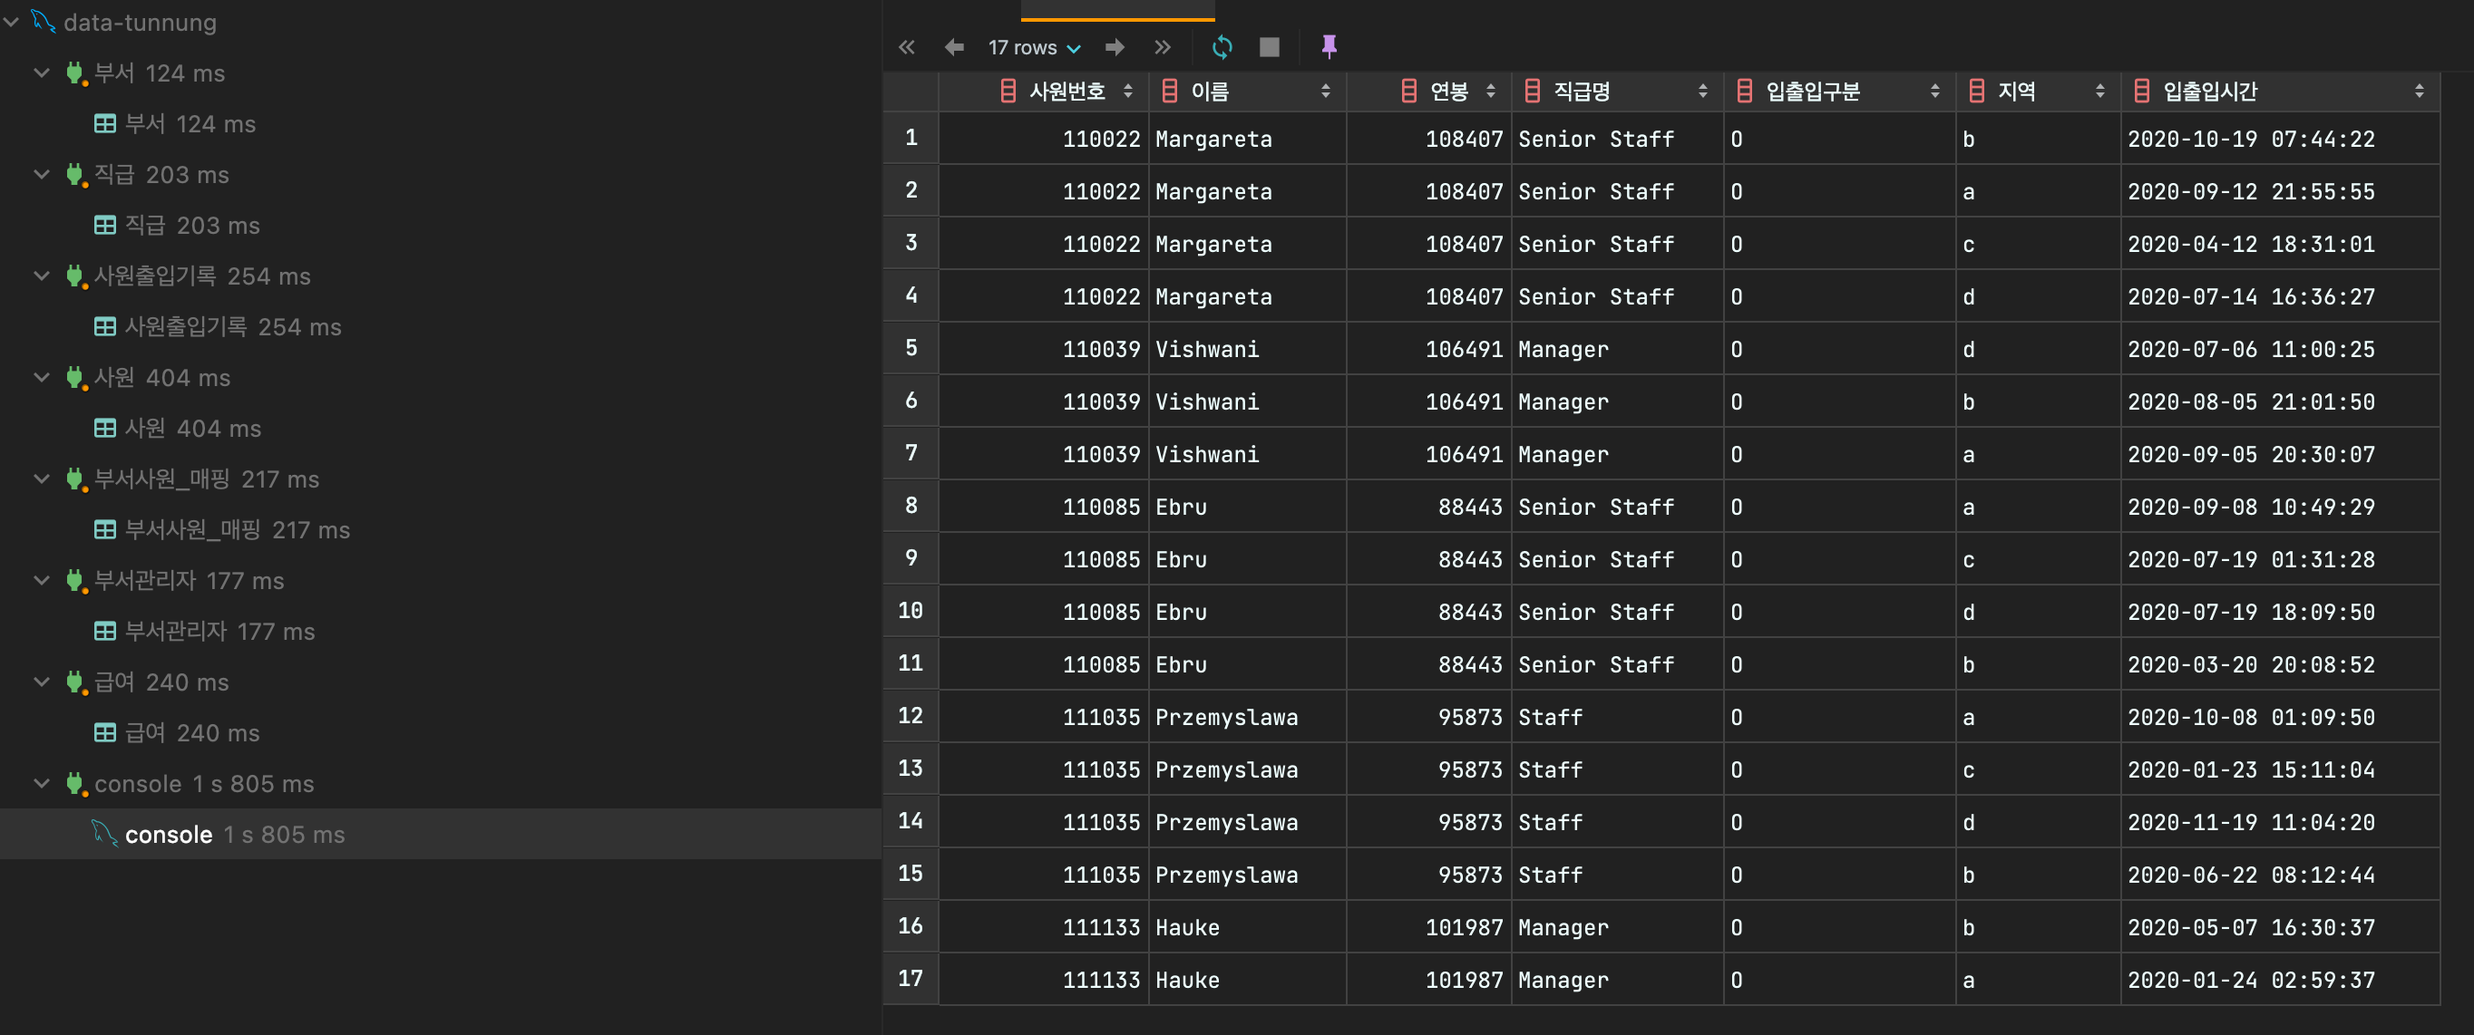
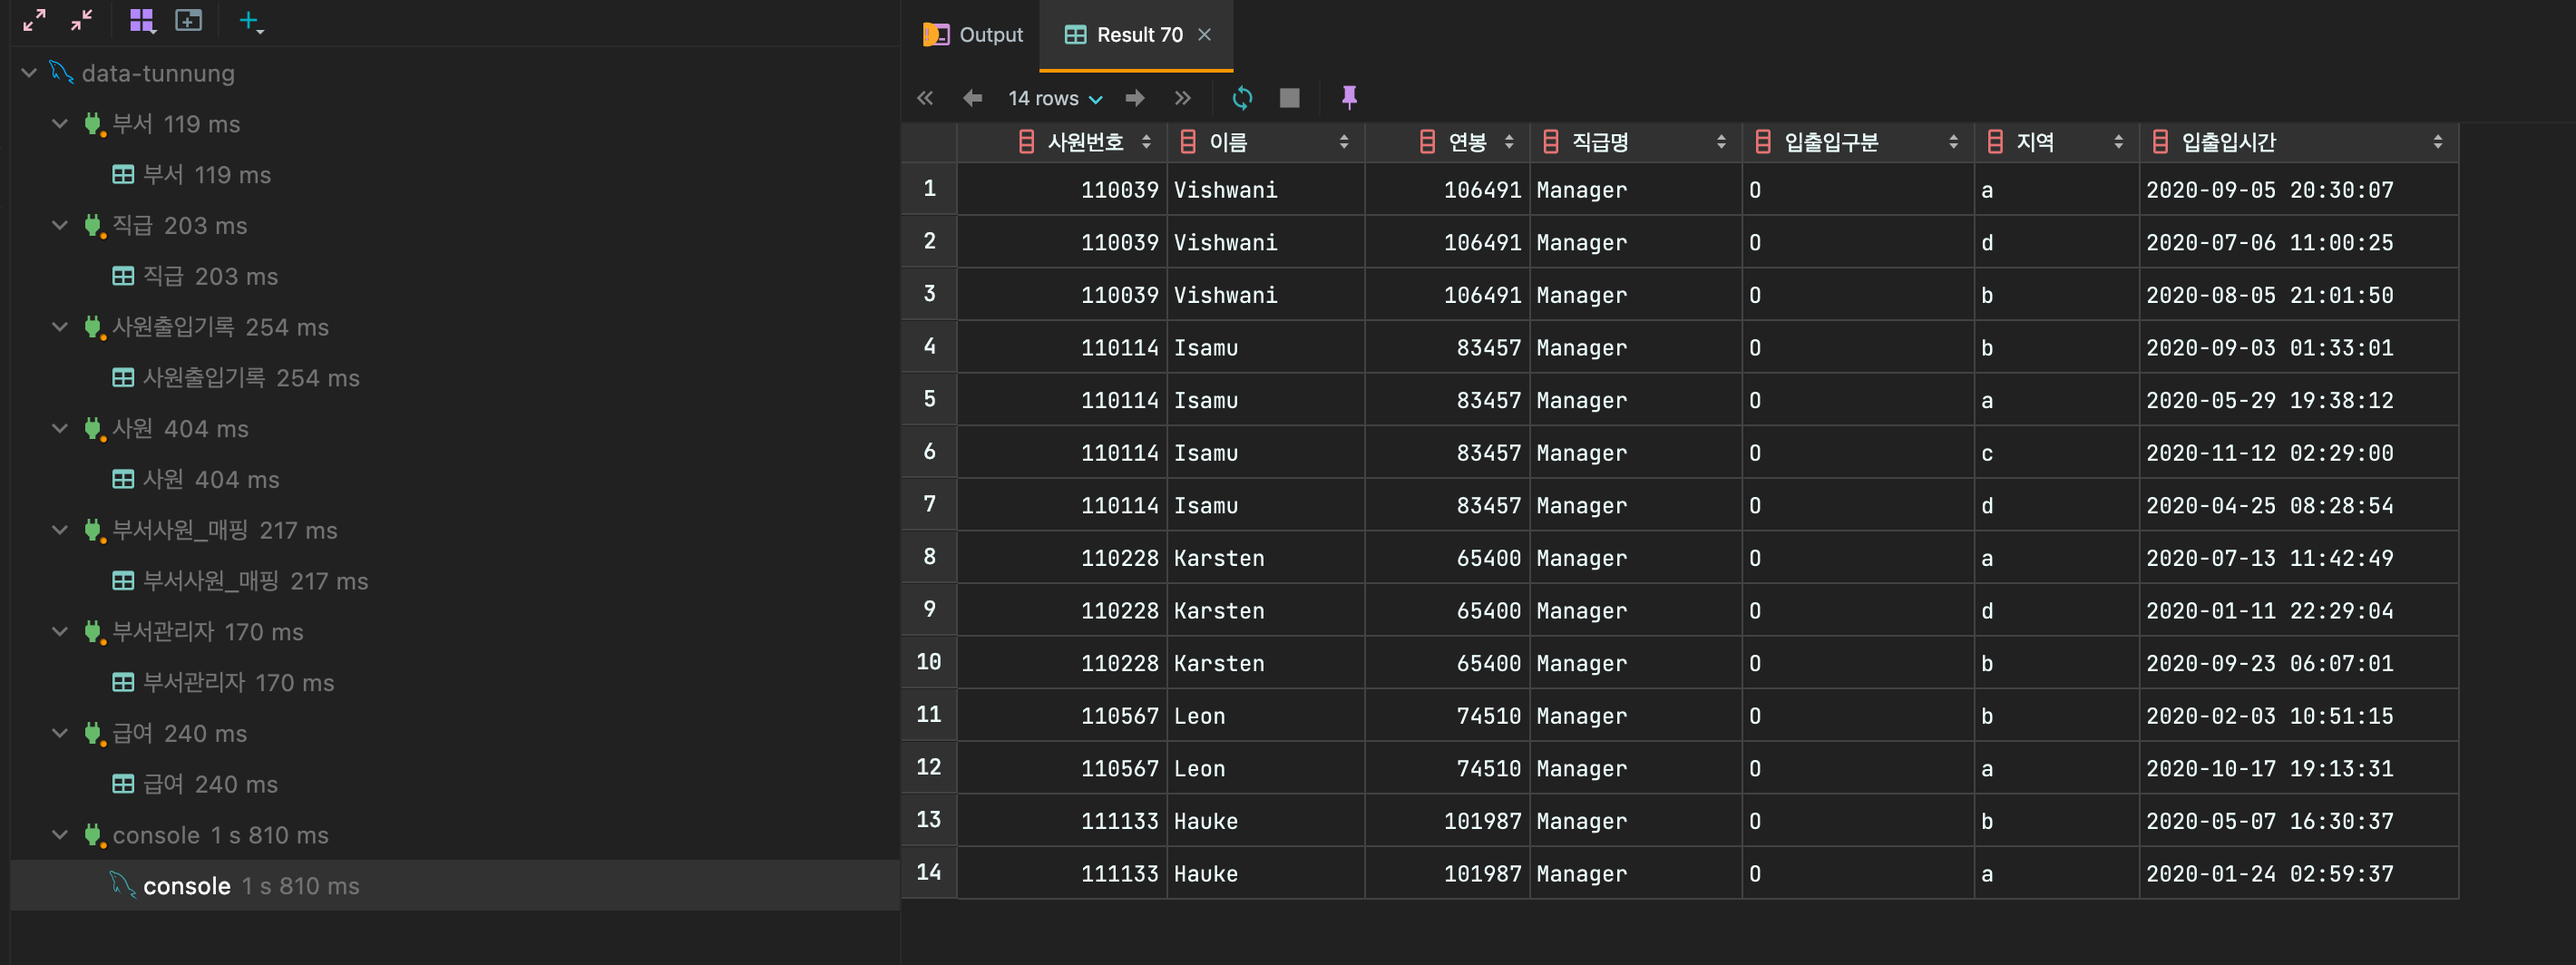
feat : 이미지 수정

diff --git a/README.md b/README.md
@@ -83,7 +83,7 @@ order by 사원번호
 ;
 ```
 
-m1 기준 실행속도 : 1s 805ms
+m1 기준 실행속도 : 1s 810ms
 
 ![step1](/images/step1.png)
 
